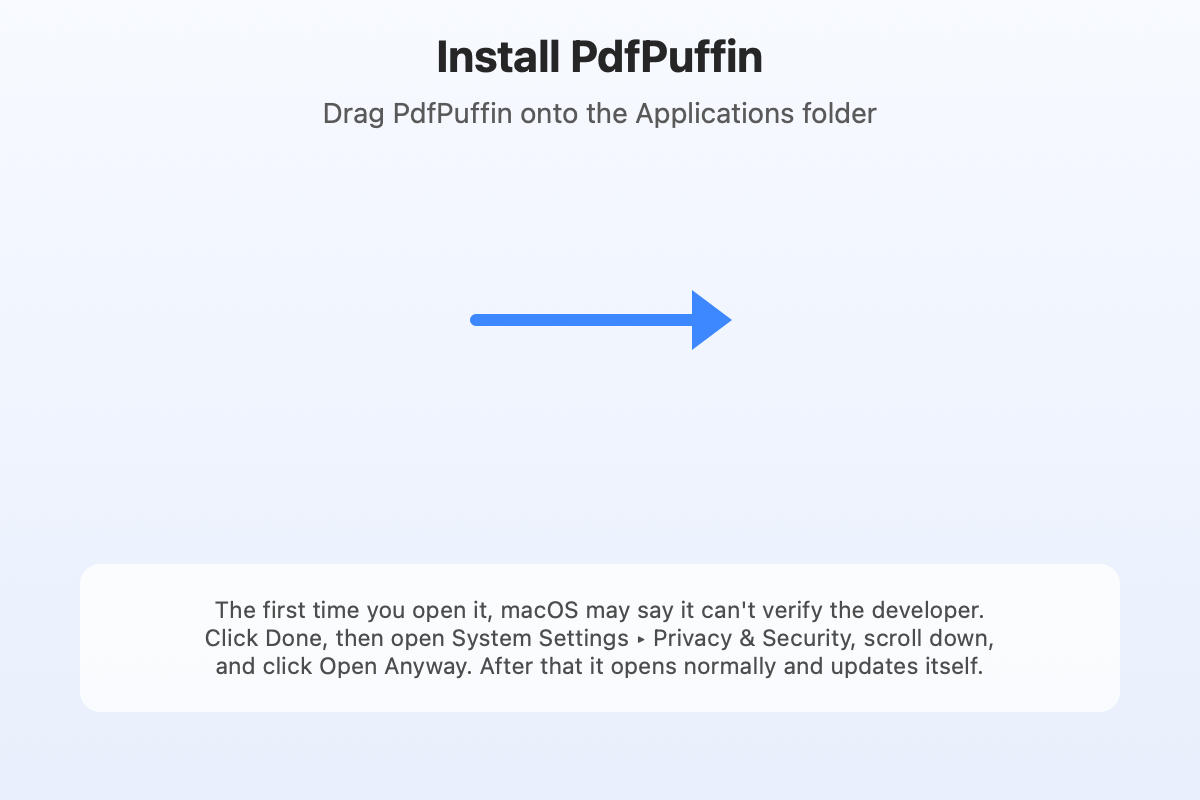
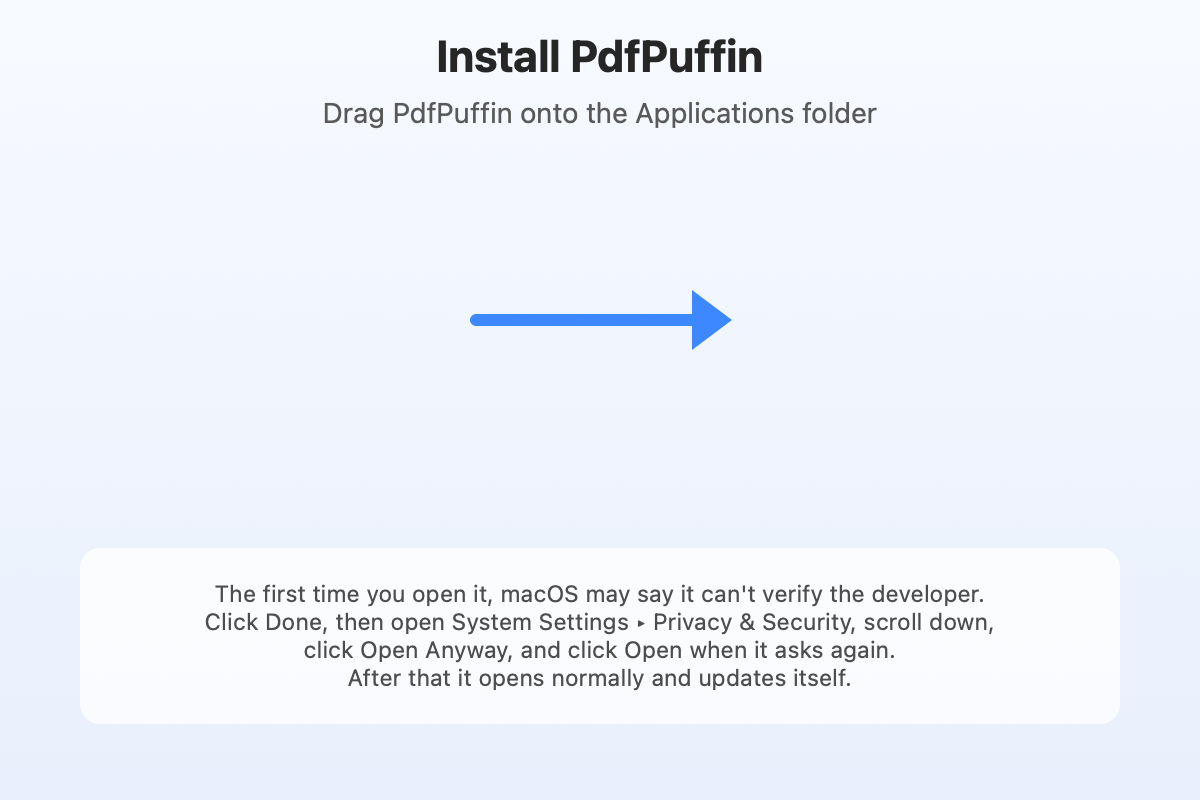
PdfPuffin 0.3.1
- The installer and instructions now include the last step for first-time setup: after Open Anyway, click Open when macOS asks again

Changed region(s): [[0.1542, 0.7188, 0.8325, 0.875]]

diff --git a/scripts/dmg-background.swift b/scripts/dmg-background.swift
@@ -43,11 +43,11 @@ head.move(to: NSPoint(x: 366, y: y)); head.line(to: NSPoint(x: 346, y: y + 15));
 accent.setFill(); head.fill()
 
 // First-launch note (unsigned app).
-let note = NSRect(x: 40, y: 44, width: 520, height: 74)
+let note = NSRect(x: 40, y: 38, width: 520, height: 88)
 NSColor(white: 1, alpha: 0.75).setFill()
 NSBezierPath(roundedRect: note, xRadius: 10, yRadius: 10).fill()
-text("The first time you open it, macOS may say it can't verify the developer.\nClick Done, then open System Settings ▸ Privacy & Security, scroll down,\nand click Open Anyway. After that it opens normally and updates itself.",
-     size: 11.5, weight: .regular, color: NSColor(white: 0.3, alpha: 1), centerY: 81, width: 500)
+text("The first time you open it, macOS may say it can't verify the developer.\nClick Done, then open System Settings ▸ Privacy & Security, scroll down,\nclick Open Anyway, and click Open when it asks again.\nAfter that it opens normally and updates itself.",
+     size: 11.5, weight: .regular, color: NSColor(white: 0.3, alpha: 1), centerY: 82, width: 500)
 
 NSGraphicsContext.restoreGraphicsState()
 try! rep.representation(using: .png, properties: [:])!.write(to: out)

diff --git a/README.md b/README.md
@@ -29,7 +29,9 @@ Requires an Apple-silicon Mac with macOS 14 or later.
 
 The first time you open it, macOS may say it can't verify the developer (the app isn't
 notarized by Apple). Click **Done**, open **System Settings ▸ Privacy & Security**, scroll
-down and click **Open Anyway**. After that it opens normally and updates itself.
+down and click **Open Anyway**, then click **Open** when the warning appears once more (your
+Mac may ask for your password). After that it opens normally and updates itself.
+[Apple's guide with pictures](https://support.apple.com/en-us/102445).
 
 ## Run it
 
